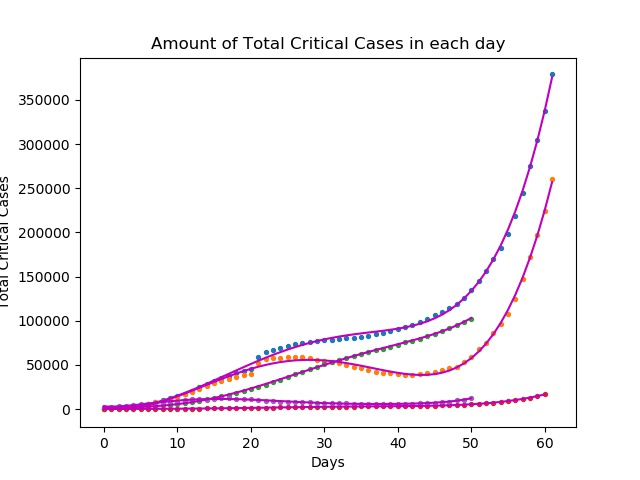
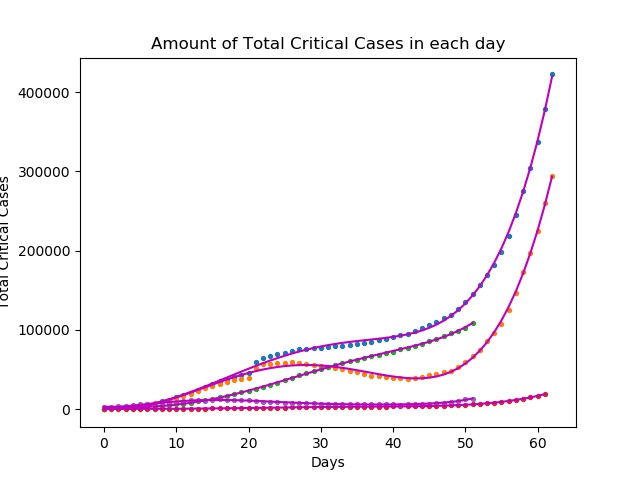
Predictions UPDATE for 25/03/2020

diff --git a/README.md b/README.md
@@ -12,30 +12,33 @@ COVID-19, the disease that can result from the coronavirus worldwide new pandemi
 
 
 
-Our predictions for 24/03/2020 : 
+Our predictions for 25/03/2020 : 
 
 The predictions for Total Cases in the following 1 days is:
-419859
+466883
 
 The predictions for Total Active Cases in the following 1 days is:
-292093
+333371
 
 The predictions for Total Cured Cases in the following 1 days is:
-108171
+114684
 
 The predictions for Total Deaths in the following 1 days is:
-18646
+21202
 
 The predictions for Total Critical Cases in the following 1 days is:
-14062
+15664
 
 
 
+```
 ![Total Cases](https://github.com/Manai-Hamza/COVID-19-Doomsday-Predictions/blob/master/graphs/Total%20Cases.jpg?raw=true)
+```
 
 
 
 |    Date    | Predicted Total Cases | Real Total Cases | Predicted Total Recovered | Real Total Recovered | Predicted  Total Deaths | Real Total Deaths | Predicted Active Cases | Real Total Cases | Predicted  Critical Cases | Real Critical Cases |
 | :--------: | :-------------------: | :--------------: | :-----------------------: | :------------------: | :---------------------: | :---------------: | :--------------------: | :--------------: | :-----------------------: | :-----------------: |
-| 24/03/2020 |        419859         |        ??        |          108171           |          ??          |          18646          |        ??         |         292093         |        ??        |           14062           |         ??          |
+| 26/03/2020 |        466883         |        ??        |          114684           |          ??          |          21202          |        ??         |         333371         |        ??        |           15664           |         ??          |
+| 24/03/2020 |        419859         |      422574      |          108171           |        108879        |          18646          |       18894       |         292093         |      294801      |           14062           |        13095        |
 | 23/03/2020 |        374118         |      378860      |          104630           |        102069        |          16485          |       16514       |         252519         |      260277      |           12252           |        12062        |
